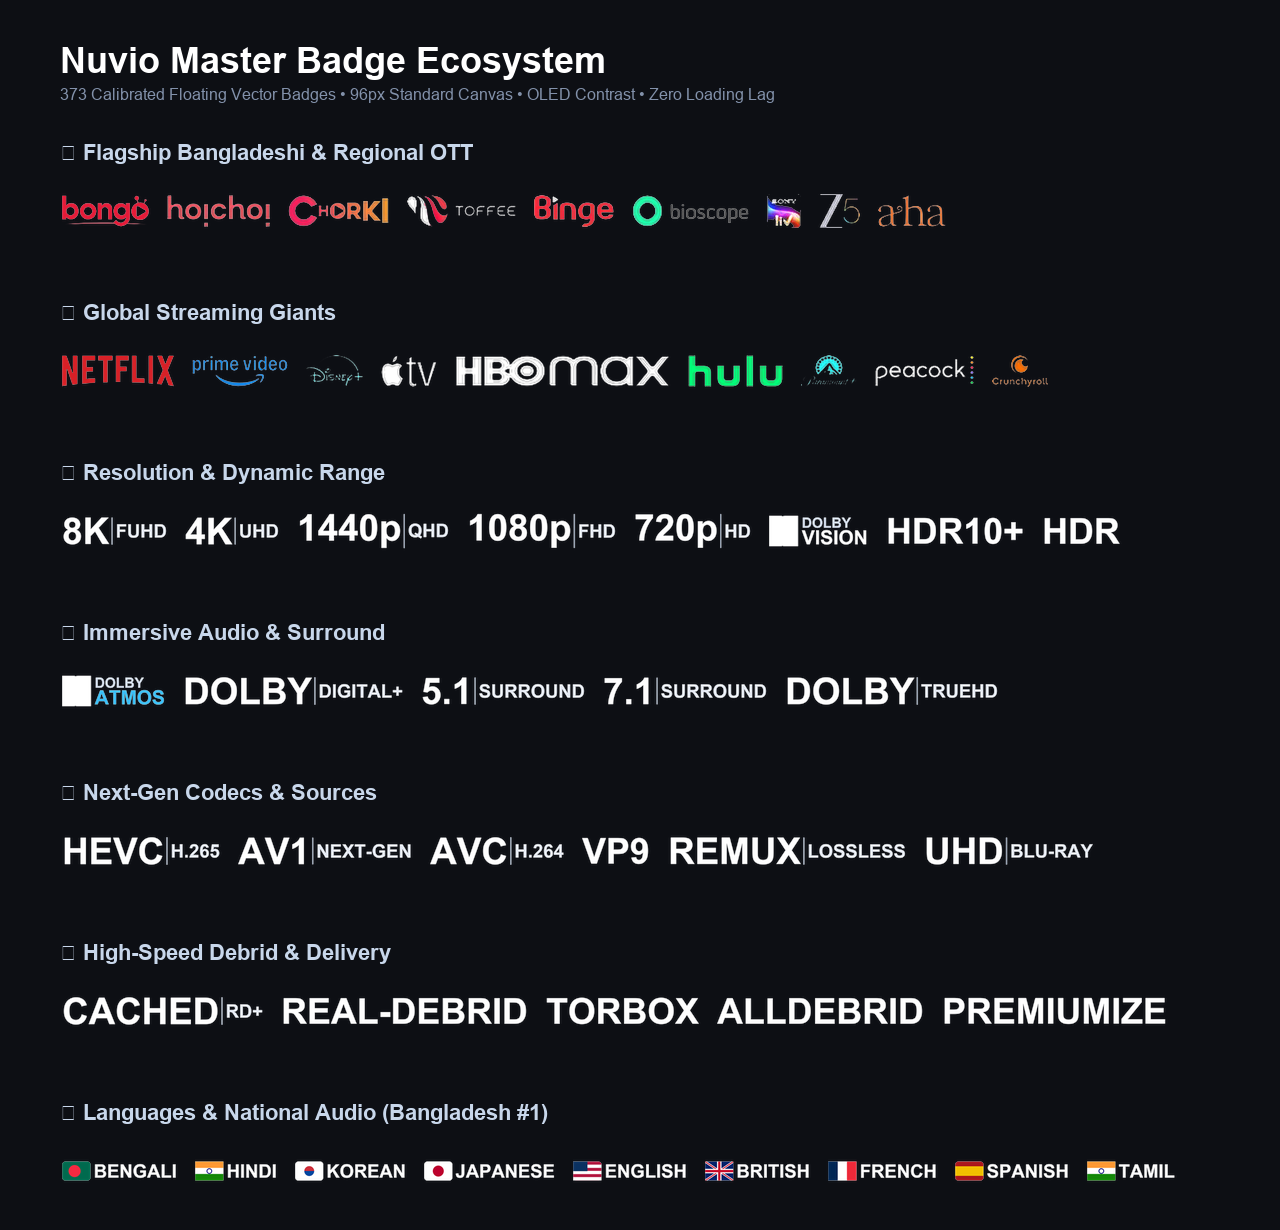
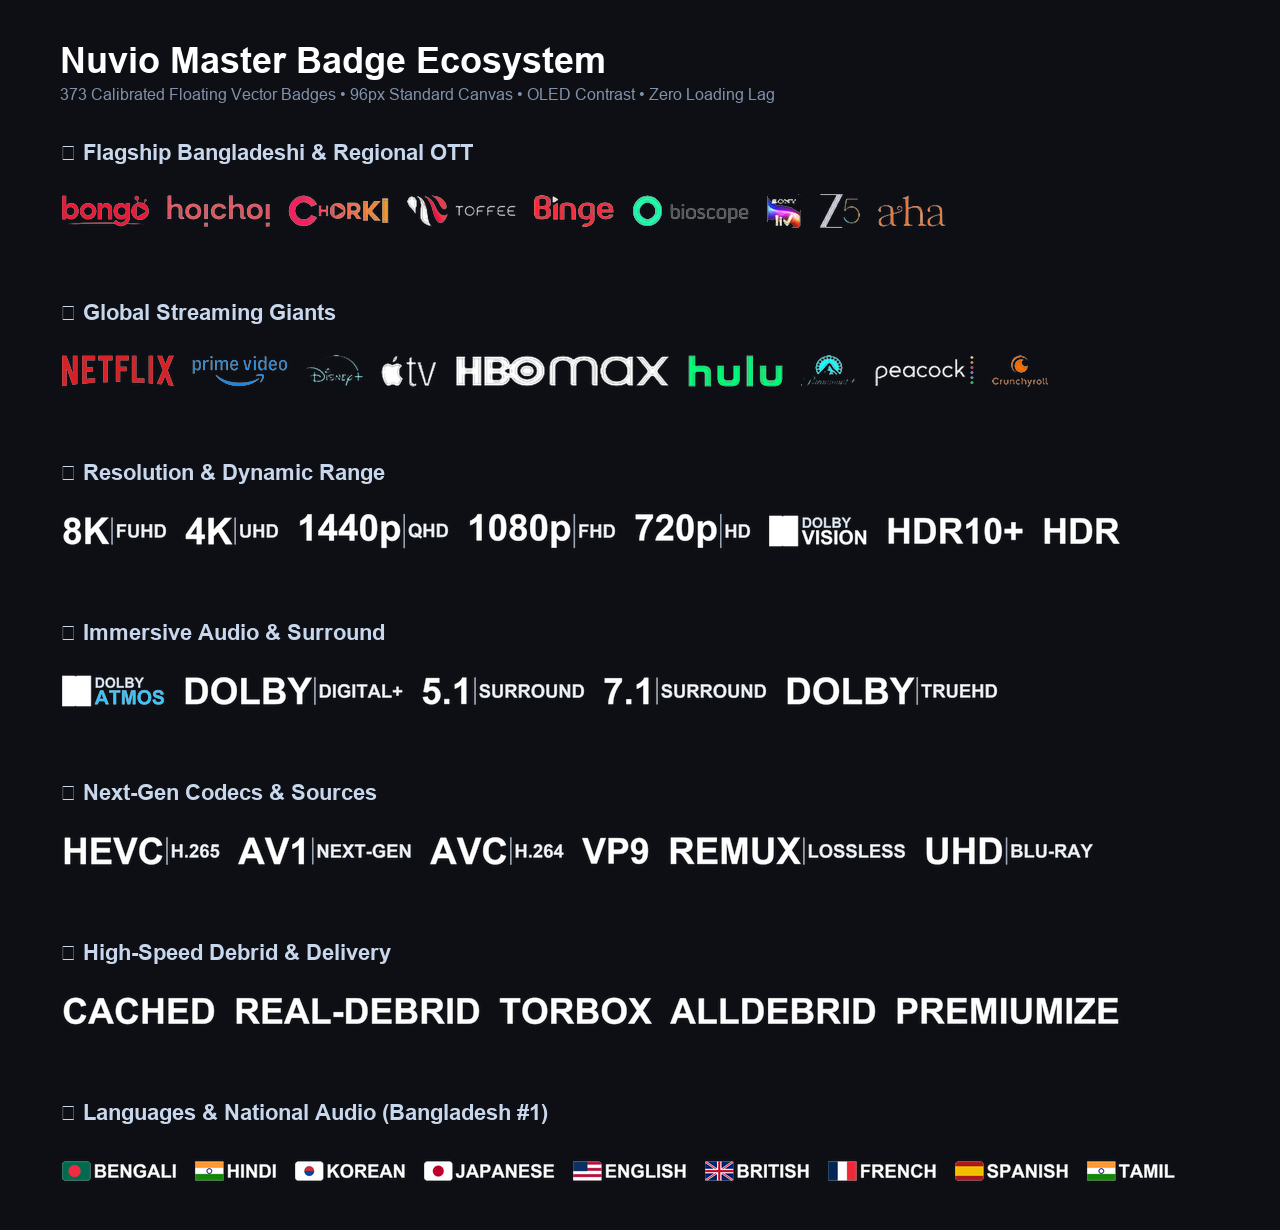
fix(debrid): replace 'CACHED RD+' with universal 'CACHED' badge & expand TorBox pattern

Changed region(s): [[0.0625, 0.8033, 0.9062, 0.8341]]

diff --git a/README.md b/README.md
@@ -50,7 +50,7 @@ Experience the authentic Nuvio stream playback interface with calibrated 4px mar
   <img src="previews/nuvio-live-player.png" alt="Nuvio Live Player Experience" width="100%" />
 </p>
 
-> **Zero Clipping Guaranteed:** Calibrated with 4px StreamBridge horizontal margins. Even 12+ badges in a single stream (Netflix, 4K UHD, Dolby Vision, HEVC H.265, 10-Bit Color, Dolby Atmos, Dolby Digital+, 5.1 Surround, WEB-DL, Cached RD+, USA English, MKV Container) fit 100% inside Nuvio's player container with zero edge cutoffs.
+> **Zero Clipping Guaranteed:** Calibrated with 4px StreamBridge horizontal margins. Even 12+ badges in a single stream (Netflix, 4K UHD, Dolby Vision, HEVC H.265, 10-Bit Color, Dolby Atmos, Dolby Digital+, 5.1 Surround, WEB-DL, CACHED, USA English, MKV Container) fit 100% inside Nuvio's player container with zero edge cutoffs.
 
 ---
 
@@ -87,7 +87,7 @@ Every streaming platform, Bengali OTT, Indian network, and Hollywood studio is c
 | 6 | `codec` | **Video Codecs** | HEVC H.265, AV1 Next-Gen, AVC H.264, VP9, VVC H.266, VC-1, MPEG-2, XVID |
 | 7 | `audio` | **Immersive Audio** | Dolby Atmos, Dolby Digital+, 5.1 Surround, 7.1 Surround, TrueHD, DTS-HD MA, DTS:X, Lossless FLAC, AAC, Opus |
 | 8 | `source` | **Source & Rips** | REMUX Lossless, UHD Blu-ray, Blu-ray Disc, WEB-DL, WEBRip, HDTV, DVDRip, CAM, TeleSync |
-| 9 | `debrid` | **Debrid & Delivery** | CACHED RD+, Real-Debrid, TorBox, AllDebrid, Premiumize, Uncached, Usenet, P2P, Direct Stream, 50GB+ High Bitrate |
+| 9 | `debrid` | **Debrid & Delivery** | CACHED (TorBox, Real-Debrid, AllDebrid, etc.), Real-Debrid, TorBox, AllDebrid, Premiumize, Uncached, Usenet, P2P, Direct Stream, 50GB+ High Bitrate |
 | 10 | `edition` | **Editions & Cuts** | IMAX Enhanced, Criterion Collection, Director's Cut, Extended Cut, Theatrical Cut, Remastered, Special Edition |
 | 11 | `release` | **Release Flags** | Proper, Repack, Internal, Limited, Season Pack, V2 Revised |
 | 12 | `container` | **Containers** | MKV Container, MP4 Container, M2TS Blu-Ray, AVI Container, TS Stream |
